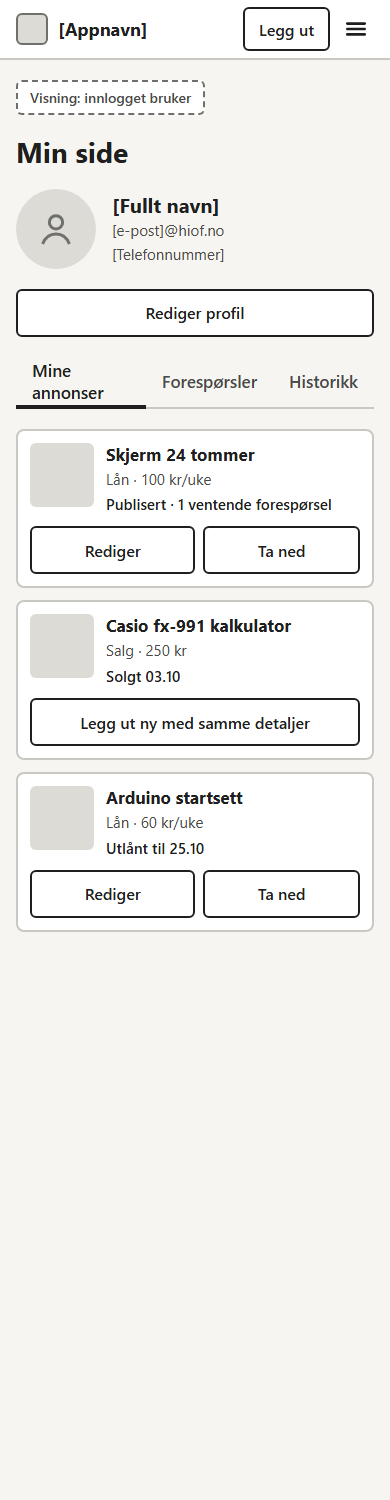
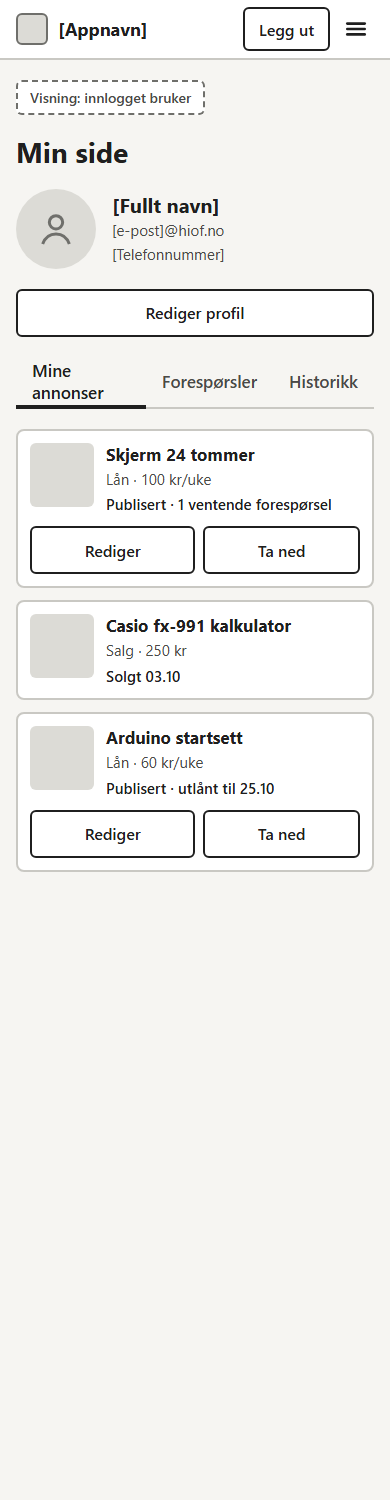
docs(krav): fjern gjenutlegging av solgte annonser
Låneannonser blir liggende med opptatte datoer markert.

Claude-Session: https://claude.ai/code/session_01HEgRdJDjkzVna2DZNPBH7j

Changed region(s): [[0.0308, 0.46, 0.9538, 0.6133], [0.8923, 0.552, 0.9231, 0.6133], [0.9538, 0.5827, 0.9846, 0.6133]]

diff --git a/docs/wireframes/kilde/Minside-mobil.dc.html b/docs/wireframes/kilde/Minside-mobil.dc.html
@@ -56,7 +56,6 @@ body{margin:0;font-family:system-ui,-apple-system,"Segoe UI",sans-serif;color:#1
 <div style="display: flex; flex-direction: column; gap: 4px"><strong style="font-size: 17px">{{ a.title }}</strong><span class="help">{{ a.meta }}</span><span class="st">{{ a.status }}</span></div>
 </div>
 <sc-if value="{{ a.live }}" hint-placeholder-val="{{ true }}"><div style="display: flex; gap: 8px"><a href="Legg-ut-mobil.dc.html" class="btn2" style="flex-grow: 1">Rediger</a><button type="button" class="btn2" style="flex-grow: 1">Ta ned</button></div></sc-if>
-<sc-if value="{{ a.sold }}" hint-placeholder-val="{{ false }}"><a href="Legg-ut-mobil.dc.html" class="btn2">Legg ut ny med samme detaljer</a></sc-if>
 </div>
 </sc-for>
 </div>
@@ -70,7 +69,7 @@ return {
 ads: [
 { title: 'Skjerm 24 tommer', meta: 'Lån · 100 kr/uke', status: 'Publisert · 1 ventende forespørsel', live: true, sold: false },
 { title: 'Casio fx-991 kalkulator', meta: 'Salg · 250 kr', status: 'Solgt 03.10', live: false, sold: true },
-{ title: 'Arduino startsett', meta: 'Lån · 60 kr/uke', status: 'Utlånt til 25.10', live: true, sold: false }
+{ title: 'Arduino startsett', meta: 'Lån · 60 kr/uke', status: 'Publisert · utlånt til 25.10', live: true, sold: false }
 ]
 };
 }

diff --git a/docs/wireframes/kilde/Minside-desktop.dc.html b/docs/wireframes/kilde/Minside-desktop.dc.html
@@ -55,7 +55,6 @@ body{margin:0;font-family:system-ui,-apple-system,"Segoe UI",sans-serif;color:#1
 <strong style="font-size: 17px">{{ a.title }}</strong><span class="help">{{ a.meta }}</span><span class="st">{{ a.status }}</span>
 <div style="margin-top: auto; padding-top: 10px; display: flex; gap: 8px">
 <sc-if value="{{ a.live }}" hint-placeholder-val="{{ true }}"><a href="Legg-ut-desktop.dc.html" class="btn2">Rediger</a><button type="button" class="btn2">Ta ned</button></sc-if>
-<sc-if value="{{ a.sold }}" hint-placeholder-val="{{ false }}"><a href="Legg-ut-desktop.dc.html" class="btn2">Legg ut ny med samme detaljer</a></sc-if>
 </div>
 </div>
 </div>
@@ -72,7 +71,7 @@ return {
 ads: [
 { title: 'Skjerm 24 tommer', meta: 'Lån · 100 kr/uke', status: 'Publisert · 1 ventende forespørsel', live: true, sold: false },
 { title: 'Casio fx-991 kalkulator', meta: 'Salg · 250 kr', status: 'Solgt 03.10', live: false, sold: true },
-{ title: 'Arduino startsett', meta: 'Lån · 60 kr/uke', status: 'Utlånt til 25.10', live: true, sold: false }
+{ title: 'Arduino startsett', meta: 'Lån · 60 kr/uke', status: 'Publisert · utlånt til 25.10', live: true, sold: false }
 ]
 };
 }

diff --git a/docs/sign-off/rapport.html b/docs/sign-off/rapport.html
@@ -203,7 +203,7 @@ sesjon, hvem brukeren er i forespørselen og om statusen tillater handlingen.</p
 </section>
 <section class="screen">
 <h3><span class="num">14</span>Min side: mine annonser</h3>
-<p class="lead">Profil øverst og egne annonser under. Solgte annonser kan legges ut på nytt som kopi.</p>
+<p class="lead">Profil øverst og egne annonser under.</p>
 <p class="meta"><span>Komponenter:</span> ProfileCard, ListingCard<br><span>Server:</span> GET /api/me/listings</p>
 <div class="pair">
 <figure class="mob"><div class="frame"><img src="../wireframes/png/Minside-mobil.png" alt="Min side: mine annonser, mobil"></div><figcaption>Mobil</figcaption></figure>

diff --git a/kravspesifikasjon.md b/kravspesifikasjon.md
@@ -55,7 +55,7 @@ Vi vil bygge en webapplikasjon der studenter kan legge ut og finne ting for salg
 | Forlengelse | Avklart 28.09 | Begge kan foreslå senere returdato; den andre godtar eller avslår. Blokkeres ved kollisjon med annet godtatt lån (D-19 til D-25). |
 | Avbestilling | Avklart 28.09 | Forespørrer kan trekke en ventende forespørsel. Etter aksept kan begge avbestille før overlevering. Ingen avbestilling midt i et lån (D-55). |
 | Reservasjon | Avklart 28.09 | Ventende forespørsler reserverer ikke. Første godtatte avtale reserverer, og overlappende ventende forespørsler avslås (D-27 til D-29). |
-| Salg fullført | Avklart 28.09 | Godtatt kjøpsforespørsel tar annonsen ut av søket og avslår andre ventende bud. Eier kan legge ut ny annonse med kopierte detaljer (D-30 til D-35). |
+| Salg fullført | Avklart 28.09 | Godtatt kjøpsforespørsel tar annonsen ut av søket og avslår andre ventende bud (D-30 til D-32). Solgte annonser kan ikke legges ut på nytt. Låneannonser blir liggende i søket, med opptatte datoer markert. |
 | Varsler | Avklart 28.09 | E-post ved ny forespørsel, motforslag, aksept, avslag og avbestilling. Status vises også i appen (D-65 til D-67). Påminnelser om forsinket retur er med; kanal og hyppighet er åpent (D-86). |
 | Returproblemer | Avklart 28.09 og 29.09 | Begge kan rapportere returproblem. Rapporten lagres som påstand og avgjør ingenting (D-87). Bare den som skrev og admin kan lese den; admin kontakter partene ved behov. Admin-dashboard er utenfor MVP (D-89), så hvordan admin leser rapportene, er åpent. |
 | Utløp | Avklart 29.09 | En ubesvart forespørsel utløper etter 7 dager. Erstatter D-54. |
@@ -89,7 +89,7 @@ Chat er ønsket etter MVP. Betaling, vurderinger og konfliktløsning kan vurdere
 | FK-08 | Etter aksept skal begge parter se hverandres telefon og e-post og bekrefte overlevering i appen. Salg og gis bort er fullført når begge har bekreftet; lån er da i bruk. |
 | FK-09 | Begge parter i et lån skal kunne foreslå en senere returdato, som den andre godtar eller avslår. |
 | FK-10 | Begge parter i et lån skal kunne rapportere et returproblem. |
-| FK-11 | Brukeren skal ha Min side med profil (bilde, navn, e-post, telefon) og fanene Mine annonser, Forespørsler og Historikk, og kunne redigere profil, ta ned egne annonser, legge ut en kopi av en solgt annonse og logge ut. |
+| FK-11 | Brukeren skal ha Min side med profil (bilde, navn, e-post, telefon) og fanene Mine annonser, Forespørsler og Historikk, og kunne redigere profil, ta ned egne annonser og logge ut. |
 | FK-12 | Partene skal få e-post ved ny forespørsel, motforslag, aksept, avslag og avbestilling. |
 
 ### Informasjon per handelstype

diff --git a/docs/wireframes/README.md b/docs/wireframes/README.md
@@ -89,7 +89,7 @@ endrer ingenting i databasen.
 |---|---|---|
 | `completeAccount` | Ny bruker | Navn og telefon påkrevd og gyldige. |
 | `createListing`, `updateListing` | Innlogget bruker / eier | Påkrevde felt, 1–10 bilder, pris heltall ≥ 0. Bare eier kan redigere. |
-| `unpublishListing`, `copyListing` | Eier | Kopi lager ny annonse og endrer ikke gamle avtaler. |
+| `unpublishListing` | Eier | Tar annonsen ut av søket. Endrer ikke eksisterende avtaler. |
 | `sendRequest` | Innlogget bruker | Ikke egen annonse, annonsen er aktiv. Salg: bud > 0. Lån: minst 7 dager, ingen overlapp med godtatte lån. |
 | `acceptOffer`, `declineOffer`, `sendCounterOffer` | Den som har tur | Bare siste forslag kan godtas. Godtatt salg setter annonsen til solgt og avslår andre ventende bud. Godtatt lån avslår overlappende ventende forespørsler. |
 | `withdrawRequest` | Forespørrer | Bare mens den venter. |
@@ -122,7 +122,7 @@ ikke kodenavn. Ruter og komponentnavn er forslag.
 | 08b | Avtalt (kjøper) | `Avtale-avtalt-*` | `/requests/:id` | `ContactCard`, `HandoverConfirmation` | Pris, kontaktinfo, overleveringsstatus for begge, «Bekreft at jeg har fått varen», «Avbestill». | |
 | 08c | Salget er fullført | `Avtale-fullfort-*` | `/requests/:id` | `StatusBanner`, `History` | Begge bekreftelser med tidspunkt, pris, historikk. | |
 | 08d | Lån i bruk | `Avtale-leie-aktiv-*` | `/requests/:id` | `ExtensionPanel`, `ReturnIssuePanel` | Periode, pris, kontakt. Forleng lånet (WV-01), retur som eieren bekrefter, og rapporter returproblem (WV-02). | |
-| 09 | Min side: Mine annonser | `Minside-*` | `/me` | `ProfileCard`, `MyPageTabs`, `ListingCard` | Profil og faner. Egne annonser med status, «Rediger», «Ta ned», «Legg ut ny med samme detaljer». | |
+| 09 | Min side: Mine annonser | `Minside-*` | `/me` | `ProfileCard`, `MyPageTabs`, `ListingCard` | Profil og faner. Egne annonser med status, «Rediger» og «Ta ned». Solgte annonser har ingen handlinger; låneannonser blir liggende med opptatte datoer. | |
 | 09 | Min side: Historikk | `Minside-historikk-*` | `/me?tab=history` | `HistoryList` | Fullførte salg og lån, både gitt og mottatt. | |
 | 09 | Rediger profil | `Profil-rediger-*` | `/me/profile` | `ProfileForm` | Bytt eller fjern bilde, navn, telefon, e-post (låst), «Lagre», «Logg ut». | |
 
